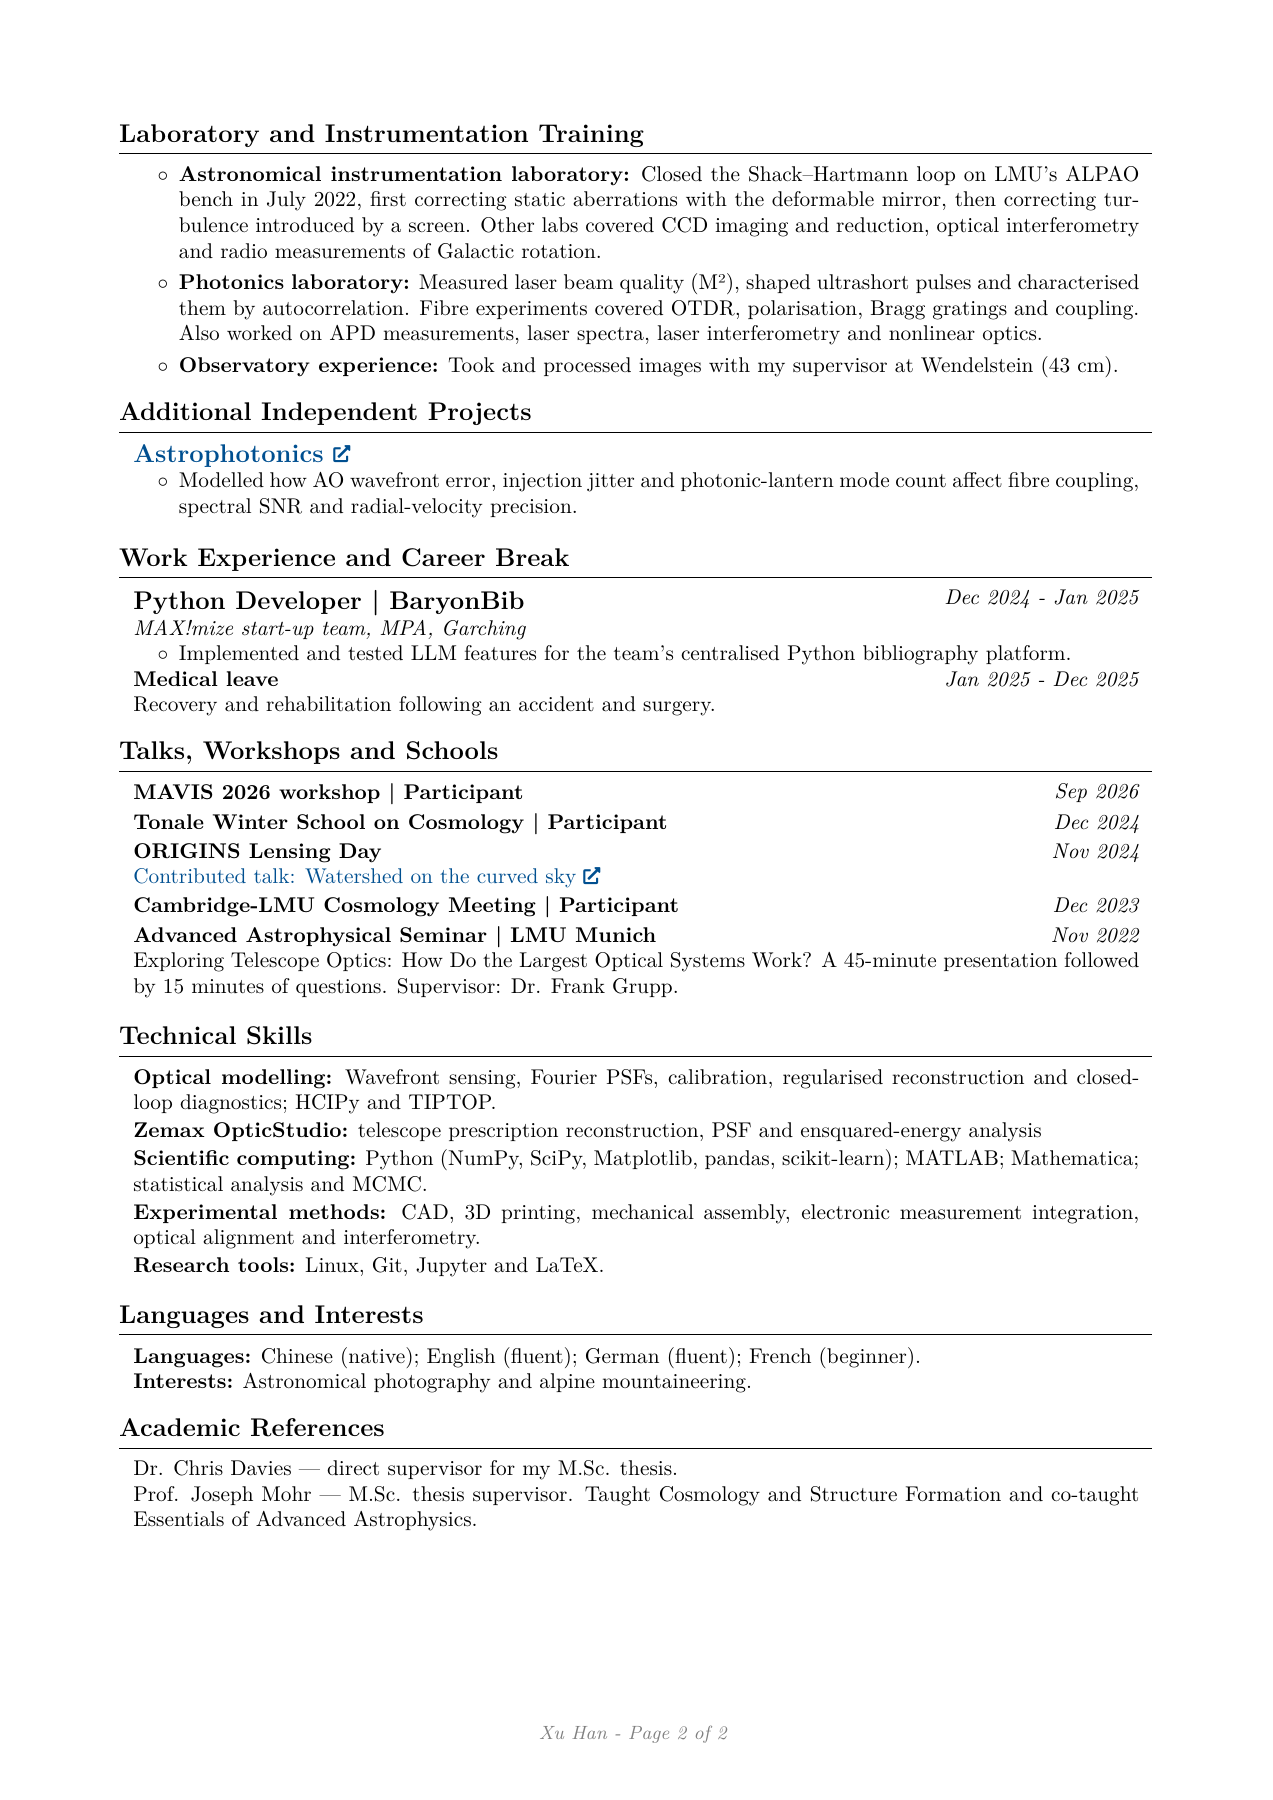
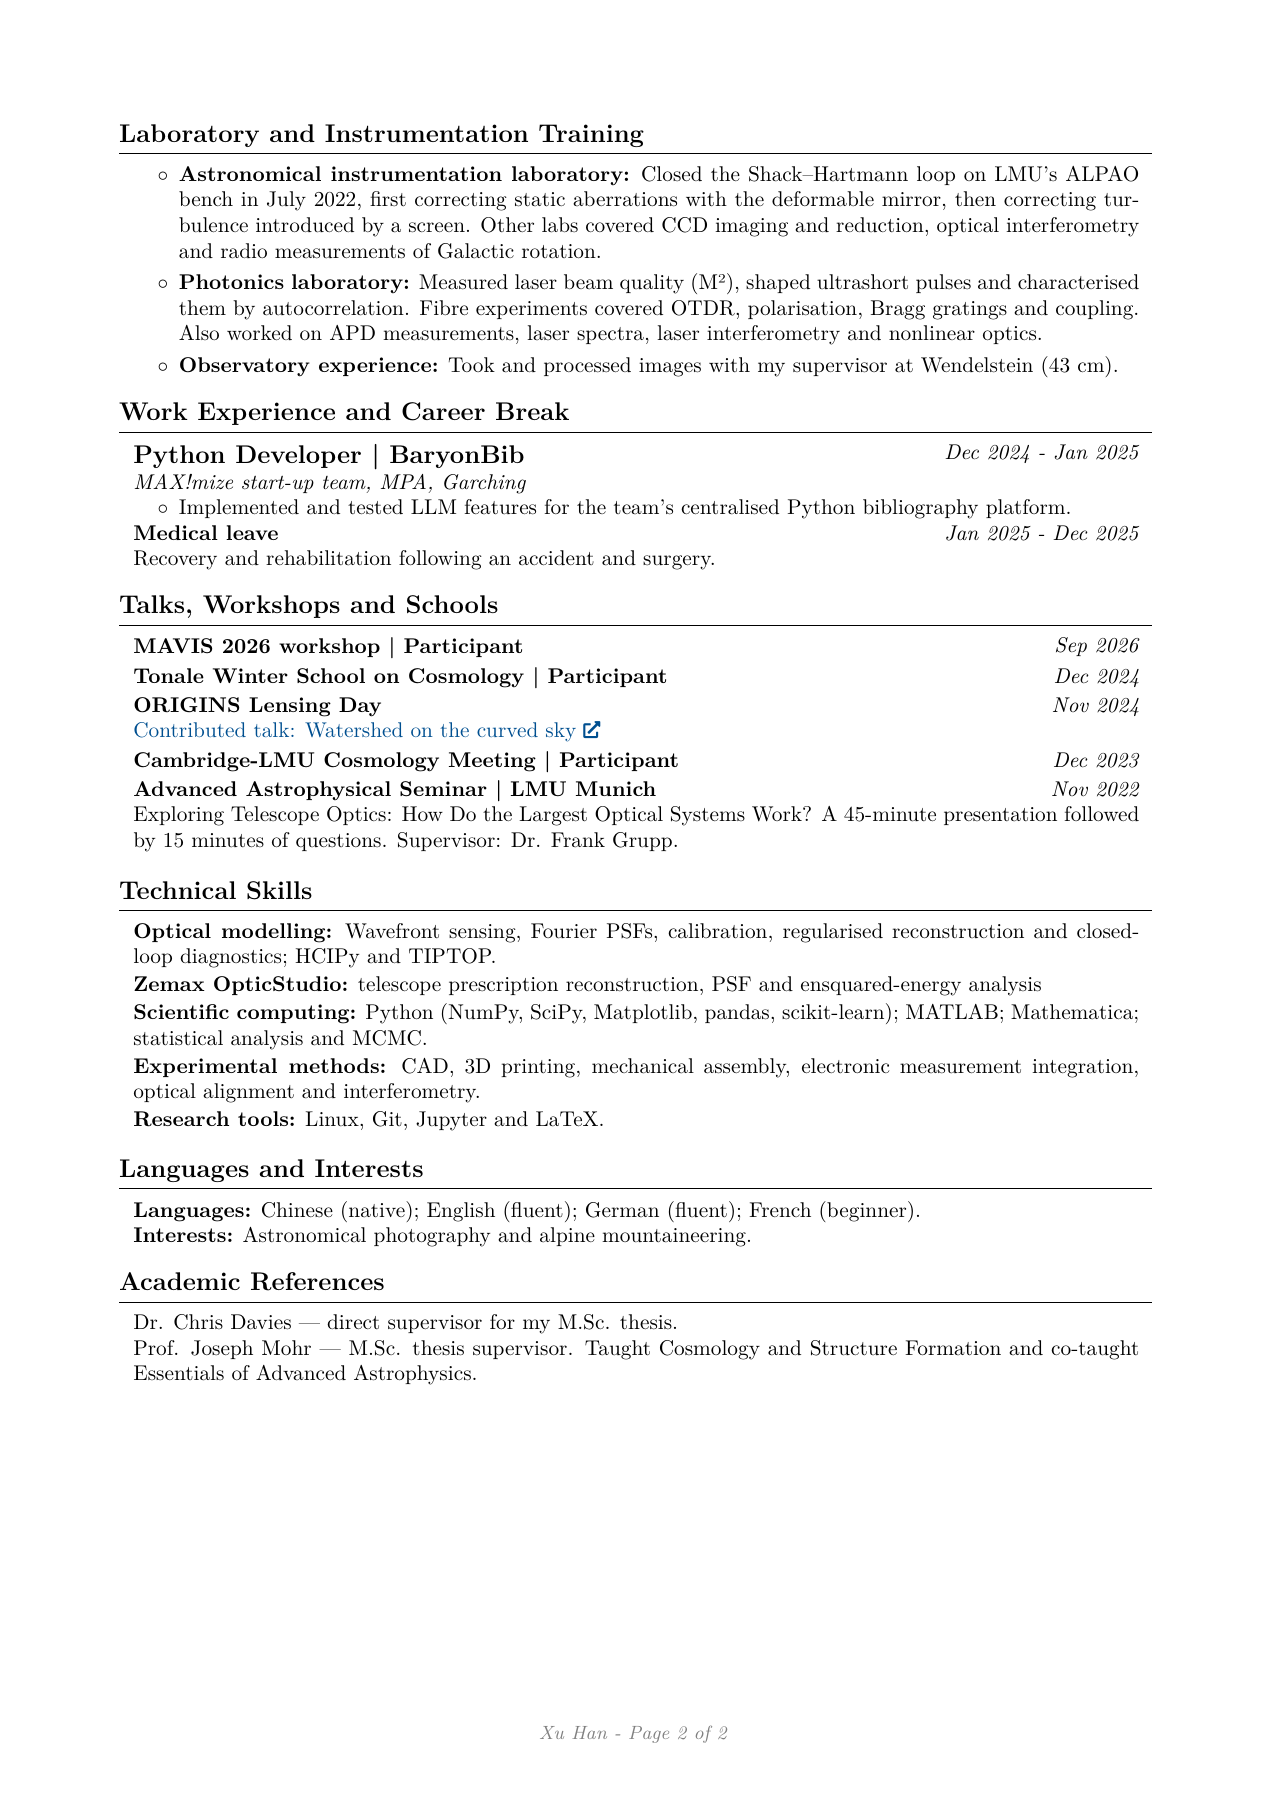
Group the Shack–Hartmann and Zemax studies as independent projects and remove Astrophotonics

diff --git a/cv/build.py b/cv/build.py
@@ -66,12 +66,11 @@ for item in data["education"]:
         parts.append(one(tex_links(item["links"])))
     parts.append("\\vspace{0.08 cm}\n")
 
-parts.append(section("Selected Research and Engineering Projects"))
-parts.extend(project(item) for item in data["core"])
+for title, items in data["project_sections"].items():
+    parts.append(section(title))
+    parts.extend(project(item) for item in items)
 parts += ["\\clearpage\n", section("Laboratory and Instrumentation Training")]
 parts.append(one("\\begin{highlights}\n" + "\n".join(r"\item \textbf{" + esc(k) + ":} " + esc(v) for k, v in data["labs"]) + "\n\\end{highlights}"))
-parts.append(section("Additional Independent Projects"))
-parts.extend(project(item) for item in data["additional"])
 parts.append(section("Work Experience and Career Break"))
 w = data["work"]
 parts += [two(r"{\large\textbf{" + esc(w["title"]) + "}}\n\n" + r"\textit{" + esc(w["role"]) + "}", w["date"]), bullets(w["bullets"])]
@@ -97,7 +96,6 @@ for item in data["education"]:
     md += ["### " + item["degree"] + " | " + item["institution"], item["date"], *item["details"]]
     if item.get("links"):
         md.append(md_links(item["links"]))
-md.append("## Selected Research and Engineering Projects")
 def md_project(item):
     text = ["### [" + item["title"] + "](" + item["url"] + ")"]
     if item.get("role"):
@@ -108,11 +106,11 @@ def md_project(item):
         text += ["Supervisors: " + item["supervisors"] + "."]
     text += ["\n".join("- " + x for x in item["bullets"])]
     return text
-for item in data["core"]:
-    md += md_project(item)
-md += ["## Laboratory and Instrumentation Training", "\n".join("- **" + k + ":** " + v for k, v in data["labs"]), "## Additional Independent Projects"]
-for item in data["additional"]:
-    md += md_project(item)
+for title, items in data["project_sections"].items():
+    md.append("## " + title)
+    for item in items:
+        md += md_project(item)
+md += ["## Laboratory and Instrumentation Training", "\n".join("- **" + k + ":** " + v for k, v in data["labs"])]
 md += ["## Work Experience and Career Break", "### " + w["title"], w["date"] + " | " + w["role"], "\n".join("- " + x for x in w["bullets"]), "### " + break_item["title"], break_item["date"], break_item["text"], "## Talks, Workshops and Schools"]
 for item in data["activities"]:
     md += ["### " + item["title"] + " | " + item["date"]]

diff --git a/cv/Xu_Han_CV.tex b/cv/Xu_Han_CV.tex
@@ -207,7 +207,7 @@ Hubei University of Technology
 Electronics, control systems and embedded systems.
 \end{onecolentry}
 \vspace{0.08 cm}
-\section{Selected Research and Engineering Projects}
+\section{Independent Projects}
 \begin{onecolentry}
 {\large\textbf{Shack-Hartmann Wavefront Sensing \& Adaptive Optics Simulation}}
 \end{onecolentry}
@@ -236,6 +236,7 @@ Electronics, control systems and embedded systems.
 \end{highlights}
 \end{onecolentry}
 \vspace{0.08 cm}
+\section{Degree Theses}
 \begin{twocolentry}{\textit{Mar 2023 - Aug 2024}}
 {\large\textbf{\href{https://xhvoid.github.io/Xu-Han.github.io/files/watershed-voids-thesis.pdf}{Weak Lensing Void Finder}}}
 \end{twocolentry}
@@ -271,16 +272,6 @@ Electronics, control systems and embedded systems.
 \item \textbf{Observatory experience:} Took and processed images with my supervisor at Wendelstein (43 cm).
 \end{highlights}
 \end{onecolentry}
-\section{Additional Independent Projects}
-\begin{onecolentry}
-{\large\textbf{\href{https://github.com/xhvoid/Astrophotonics}{Astrophotonics}}}
-\end{onecolentry}
-\begin{onecolentry}
-\begin{highlights}
-\item Modelled how AO wavefront error, injection jitter and photonic-lantern mode count affect fibre coupling, spectral SNR and radial-velocity precision.
-\end{highlights}
-\end{onecolentry}
-\vspace{0.08 cm}
 \section{Work Experience and Career Break}
 \begin{twocolentry}{\textit{Dec 2024 - Jan 2025}}
 {\large\textbf{Python Developer | BaryonBib}}

diff --git a/_pages/projects.md b/_pages/projects.md
@@ -14,10 +14,9 @@ My projects range from telescope optics and adaptive optics simulations to an ex
   <a href="#elt-owl">OWL optical reconstruction</a>
   <a href="#experimental-apparatus">Experimental apparatus</a>
   <a href="#weak-lensing">Weak lensing</a>
-  <a href="#astrophotonics">Astrophotonics</a>
 </nav>
 
-### Laboratory Adaptive Optics — LMU Munich, 2022
+## Laboratory Adaptive Optics — LMU Munich, 2022
 {: #lmu-ao-lab}
 
 In July 2022, I worked with an ALPAO bench in the Instrumental Astrophysics Laboratory at LMU Munich. We applied individual Zernike modes with the deformable mirror and measured the wavefront with a Shack–Hartmann sensor. We studied static correction, then introduced an artificial turbulence screen to investigate dynamic correction. We followed the wavefront error and Strehl ratio and examined the point-spread function (PSF) on the science camera.
@@ -36,10 +35,12 @@ In July 2022, I worked with an ALPAO bench in the Instrumental Astrophysics Labo
   </figure>
 </details>
 
+## Independent Projects
+
 <a id="adaptive-optics"></a>
 <a id="adaptive-optics--basics"></a>
 
-## Shack-Hartmann Wavefront Sensing & Adaptive Optics Simulation
+### Shack-Hartmann Wavefront Sensing & Adaptive Optics Simulation
 
 <p class="project-role">Independent project · March 2026–present · Ongoing development</p>
 
@@ -54,7 +55,7 @@ I varied gain, delay and detector noise, then measured the residual wavefront er
   <a href="https://xhvoid.github.io/Shack-Hartmann-AO-Simulation/#ngs22">Loss-of-lock case study</a>
 </nav>
 
-### Where did the four spots in the 42 m image come from?
+#### Where did the four spots in the 42 m image come from?
 
 Four faint spots in my simulated 42 m telescope image lay 0.45 arcseconds from the star along each axis. At 2.2 µm, a checkerboard pattern on a mirror with actuators spaced 0.5 m apart would send light to those positions. The simulated wavefront sensor registered this *waffle* pattern only weakly.
 
@@ -72,7 +73,7 @@ I filtered 96 checkerboard modes out of the mirror updates. On a replay of the s
 
 [See the spot positions, filter comparison and held-out results in AO Explorer →](https://xhvoid.github.io/Shack-Hartmann-AO-Simulation/#waffle42)
 
-### Keeping the 2.2 m loop locked
+#### Keeping the 2.2 m loop locked
 
 In a 2.2 m simulation, rejected spot measurements drove the mirror to larger commands until reconstruction stopped at 0.981 s. I raised the reconstruction cutoff and replayed the same atmosphere. The revised loop reconstructed all 1,500 frames, and the mirror stayed within its stroke limits. [See the two loop traces.](https://xhvoid.github.io/Shack-Hartmann-AO-Simulation/#ngs22)
 
@@ -81,7 +82,7 @@ In a separate [42 m gain comparison](https://xhvoid.github.io/Shack-Hartmann-AO-
 For the separate multi-conjugate AO study, I used a frequency-domain model. I added a high-frequency fitting term to the TIPTOP/P3 residual spectrum and calculated the long-exposure PSF with MASTSEL.
 
 <section class="project-evidence" aria-labelledby="ao-explorer-preview">
-  <h3 id="ao-explorer-preview">AO correction in motion</h3>
+  <h4 id="ao-explorer-preview">AO correction in motion</h4>
   <div class="ao-preview-layout">
     <figure class="ao-preview-media">
       <input type="checkbox" id="ao-preview-still" class="ao-preview-toggle">
@@ -96,7 +97,7 @@ For the separate multi-conjugate AO study, I used a frequency-domain model. I ad
       <figcaption>A recorded 2 m model: the same HST/F814W template through uncorrected and AO-corrected simulated PSFs, on one fixed brightness scale. Strehl readouts describe the corresponding 1.65 μm PSFs. One simulated second is replayed over 20 seconds; the loop repeats the same 126 recorded samples.</figcaption>
     </figure>
     <div class="ao-preview-more">
-      <h4>Explore the full experiment</h4>
+      <h5>Explore the full experiment</h5>
       <p>Replay the wavefronts and images, compare recorded cases, and inspect performance curves, methods and model limitations in the interactive explorer.</p>
       <div class="portfolio-actions">
         <a class="btn btn--primary" href="https://xhvoid.github.io/Shack-Hartmann-AO-Simulation/#galaxy-panel">Open AO Explorer</a>
@@ -108,7 +109,7 @@ For the separate multi-conjugate AO study, I used a frequency-domain model. I ad
 
 <a id="elt-owl"></a>
 
-## Reconstructing OWL and tracing an ensquared-energy discrepancy
+### Reconstructing OWL and tracing an ensquared-energy discrepancy
 
 I rebuilt OWL in Zemax from the prescription in ESO’s Blue Book. At 5 arcmin off axis, I obtained 1.472 µm total RMS wavefront error. ESO gives 1.476 µm. At 3 arcmin, however, my model put 77.1% of the light inside a square of half-width 50 µm at 2.2 µm. I read about 49.9% from ESO’s curve.
 
@@ -118,9 +119,11 @@ I kept the radius fixed and changed only the focal-surface conic from −1.29529
   <a href="{{ '/projects/elt-owl/' | relative_url }}">Read the engineering report</a>
 </nav>
 
+## Degree Theses
+
 <a id="experimental-apparatus"></a>
 
-## Experimental Collisional Charging Apparatus
+### Experimental Collisional Charging Apparatus
 
 <p class="project-role">B.Sc. Physics thesis · University of Duisburg-Essen · March–August 2021</p>
 
@@ -146,7 +149,7 @@ I designed and built an apparatus to investigate charging in granular materials.
 <a id="weak-lensing"></a>
 <a id="2d-voids"></a>
 
-## Weak Lensing Void Finder
+### Weak Lensing Void Finder
 
 <p class="project-role">M.Sc. Astrophysics thesis · LMU Munich · March 2023–August 2024</p>
 
@@ -160,15 +163,5 @@ I developed a watershed algorithm for detecting cosmic voids in full-sky converg
 **Supervisors:** Prof. Joseph Mohr and Dr. Chris Davies.
 
 [Thesis (PDF)]({{ '/files/watershed-voids-thesis.pdf' | relative_url }}) · [2D-Voids repository](https://github.com/xhvoid/2D-Voids)
-
-<a id="additional-independent-projects"></a>
-
-## Astrophotonics
-
-A conceptual Python study linking residual AO wavefront error, injection jitter and photonic-lantern mode count to fibre coupling, spectral signal-to-noise ratio and radial-velocity precision. It connects complex-field propagation and modal overlap to a synthetic spectroscopic measurement.
-
-**Methods:** Wave optics, coherent modal coupling, noise budgets and parameter studies.
-
-[Repository](https://github.com/xhvoid/Astrophotonics) · [Executed notebook](https://github.com/xhvoid/Astrophotonics/blob/main/notebooks/eso_astrophotonics_showcase.ipynb)
 
 [Education and laboratory experience]({{ '/experience/' | relative_url }}) · [CV]({{ '/cv/' | relative_url }})

diff --git a/_pages/cv.md b/_pages/cv.md
@@ -7,8 +7,8 @@ author_profile: true
 
 My CV includes my adaptive optics simulation, Zemax reconstruction of ESO’s OWL telescope design, weak-lensing thesis and experimental work on collisional charging.
 
-<a class="btn btn--primary" href="{{ '/files/Xu_Han_CV.pdf?v=12b2c7d1a618' | relative_url }}" target="_blank" rel="noopener">View CV (PDF)</a>
-<a class="btn" href="{{ '/files/Xu_Han_CV.pdf?v=12b2c7d1a618' | relative_url }}" download="Xu_Han_CV.pdf">Download CV</a>
+<a class="btn btn--primary" href="{{ '/files/Xu_Han_CV.pdf?v=83fb795a6330' | relative_url }}" target="_blank" rel="noopener">View CV (PDF)</a>
+<a class="btn" href="{{ '/files/Xu_Han_CV.pdf?v=83fb795a6330' | relative_url }}" download="Xu_Han_CV.pdf">Download CV</a>
 
 *Updated 13 November 2026.*
 
@@ -19,8 +19,8 @@ My CV includes my adaptive optics simulation, Zemax reconstruction of ESO’s OW
 **B.Sc. Physics** — [Degree certificate](https://drive.google.com/file/d/1m3RH47N80jSDokQ6q0vlu0j9GsGqVNYK/view?usp=drivesdk)
 
 <div class="cv-preview" aria-label="Two-page CV preview">
-  <a href="{{ '/files/Xu_Han_CV.pdf?v=12b2c7d1a618' | relative_url }}" target="_blank" rel="noopener" aria-label="Open the complete CV as a PDF">
-    <img src="{{ '/images/cv/xu-han-cv-page-1.png?v=33cafa5d9237' | relative_url }}" alt="Xu Han's CV, page 1: education and selected research and engineering projects" width="1273" height="1800" decoding="async" style="width:100%;height:auto;border:1px solid #dde2e8;margin:0 0 1.5rem;">
-    <img src="{{ '/images/cv/xu-han-cv-page-2.png?v=9a344df8cea6' | relative_url }}" alt="Xu Han's CV, page 2: laboratory training, additional projects, work, talks and technical skills" width="1273" height="1800" loading="lazy" decoding="async" style="width:100%;height:auto;border:1px solid #dde2e8;margin:0 0 1.5rem;">
+  <a href="{{ '/files/Xu_Han_CV.pdf?v=83fb795a6330' | relative_url }}" target="_blank" rel="noopener" aria-label="Open the complete CV as a PDF">
+    <img src="{{ '/images/cv/xu-han-cv-page-1.png?v=cc698fc195ec' | relative_url }}" alt="Xu Han's CV, page 1: education, independent projects and degree theses" width="1273" height="1800" decoding="async" style="width:100%;height:auto;border:1px solid #dde2e8;margin:0 0 1.5rem;">
+    <img src="{{ '/images/cv/xu-han-cv-page-2.png?v=ead5ff3c5741' | relative_url }}" alt="Xu Han's CV, page 2: laboratory training, work, talks and technical skills" width="1273" height="1800" loading="lazy" decoding="async" style="width:100%;height:auto;border:1px solid #dde2e8;margin:0 0 1.5rem;">
   </a>
 </div>

diff --git a/cv/Xu_Han_CV.md b/cv/Xu_Han_CV.md
@@ -36,7 +36,7 @@ Sep 2013 - Jul 2017
 
 Electronics, control systems and embedded systems.
 
-## Selected Research and Engineering Projects
+## Independent Projects
 
 ### [Shack-Hartmann Wavefront Sensing & Adaptive Optics Simulation](https://github.com/xhvoid/Shack-Hartmann-AO-Simulation)
 
@@ -55,6 +55,8 @@ Independent extension of a Zemax laboratory project | 2026
 
 - Rebuilt the proposed OverWhelmingly Large Telescope from ESO’s Blue Book prescription. At 5 arcmin off axis, the RMS wavefront error was 1.472 µm, within 0.3% of ESO’s 1.476 µm.
 - At 3 arcmin, traced a 27-percentage-point discrepancy in ensquared energy to the focal surface. A spherical surface brought the model within 0.4 percentage points of ESO’s sampled curve.
+
+## Degree Theses
 
 ### [Weak Lensing Void Finder](https://xhvoid.github.io/Xu-Han.github.io/files/watershed-voids-thesis.pdf)
 
@@ -79,12 +81,6 @@ Supervisors: Prof. Gerhard Wurm and Dr. Felix Jungmann.
 - **Astronomical instrumentation laboratory:** Closed the Shack–Hartmann loop on LMU’s ALPAO bench in July 2022, first correcting static aberrations with the deformable mirror, then correcting turbulence introduced by a screen. Other labs covered CCD imaging and reduction, optical interferometry and radio measurements of Galactic rotation.
 - **Photonics laboratory:** Measured laser beam quality (M²), shaped ultrashort pulses and characterised them by autocorrelation. Fibre experiments covered OTDR, polarisation, Bragg gratings and coupling. Also worked on APD measurements, laser spectra, laser interferometry and nonlinear optics.
 - **Observatory experience:** Took and processed images with my supervisor at Wendelstein (43 cm).
-
-## Additional Independent Projects
-
-### [Astrophotonics](https://github.com/xhvoid/Astrophotonics)
-
-- Modelled how AO wavefront error, injection jitter and photonic-lantern mode count affect fibre coupling, spectral SNR and radial-velocity precision.
 
 ## Work Experience and Career Break
 
